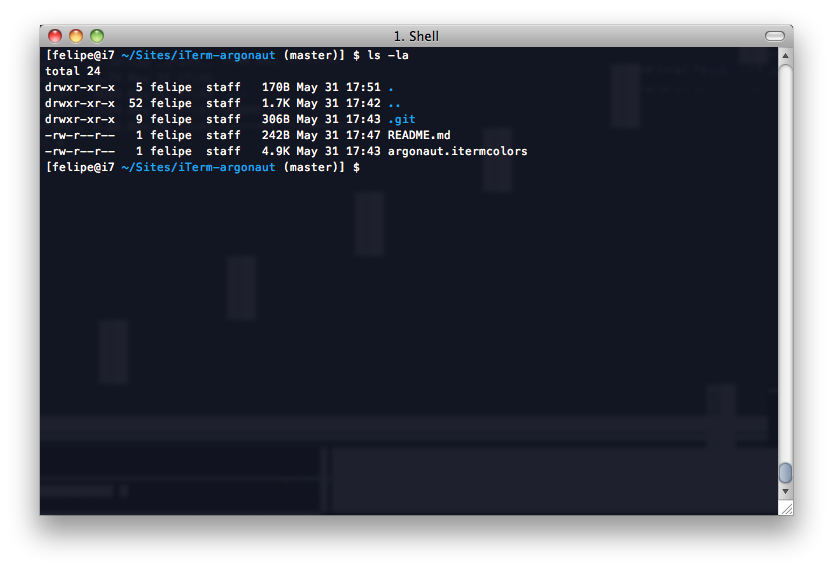
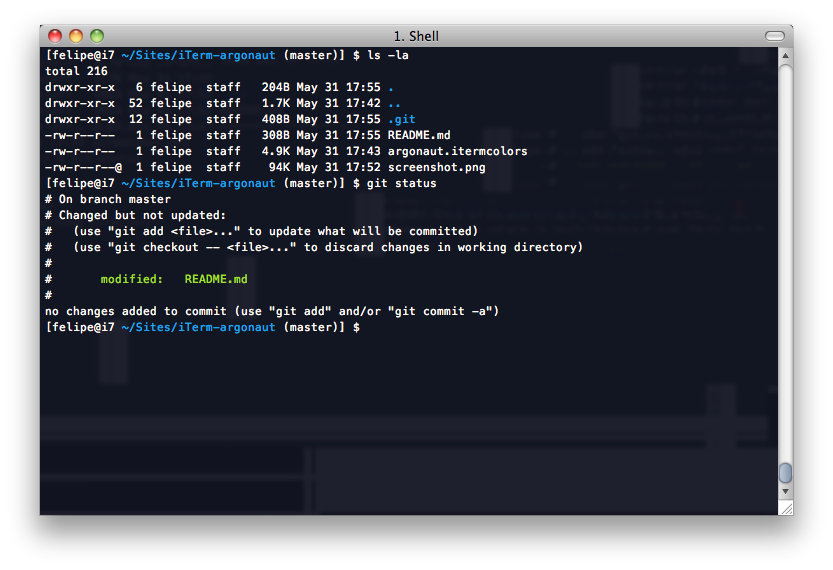
fix screenshot

diff --git a/README.md b/README.md
@@ -2,4 +2,4 @@
 
 I really love the Argonaut Theme by David Lee (unfortunately, no "official" link seems to be working at this time), and after porting it to vim I also felt like having it in iTerm, so here it is.
 
-![Screen Shot](screenshot.png)
+![Screen Shot](https://github.com/effkay/iTerm-argonaut/raw/master/screenshot.png)
